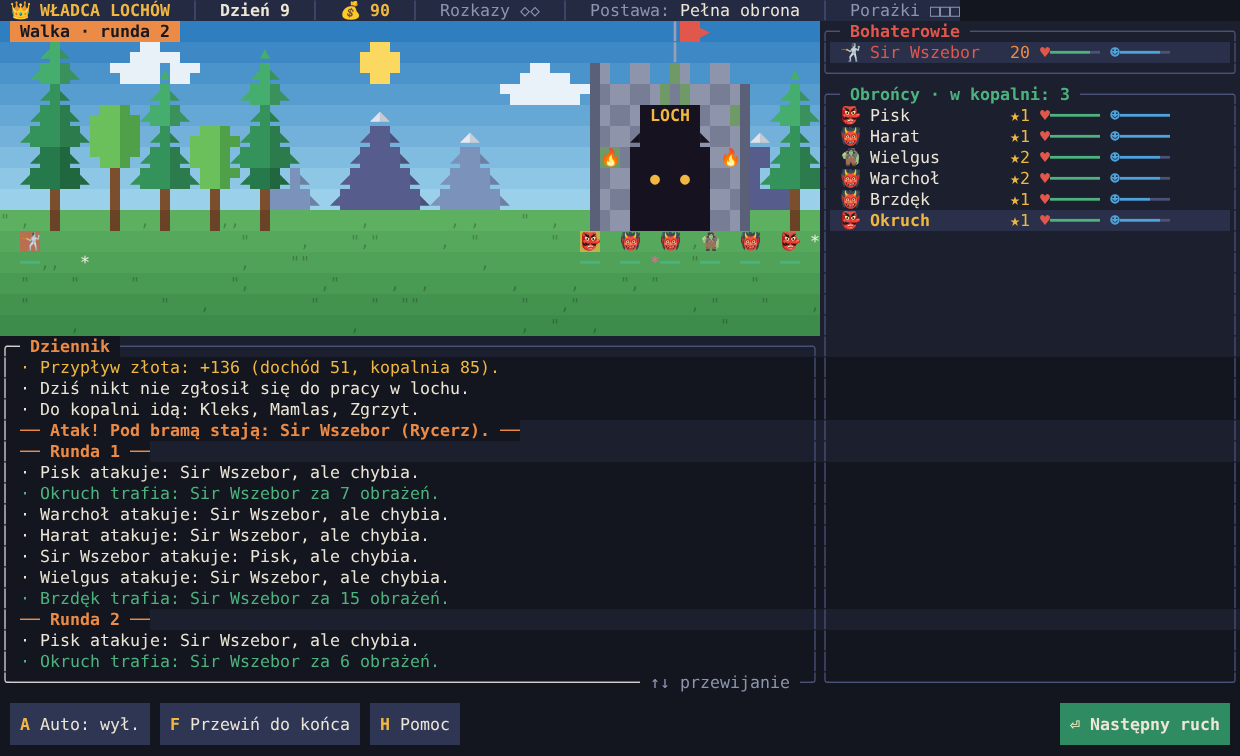
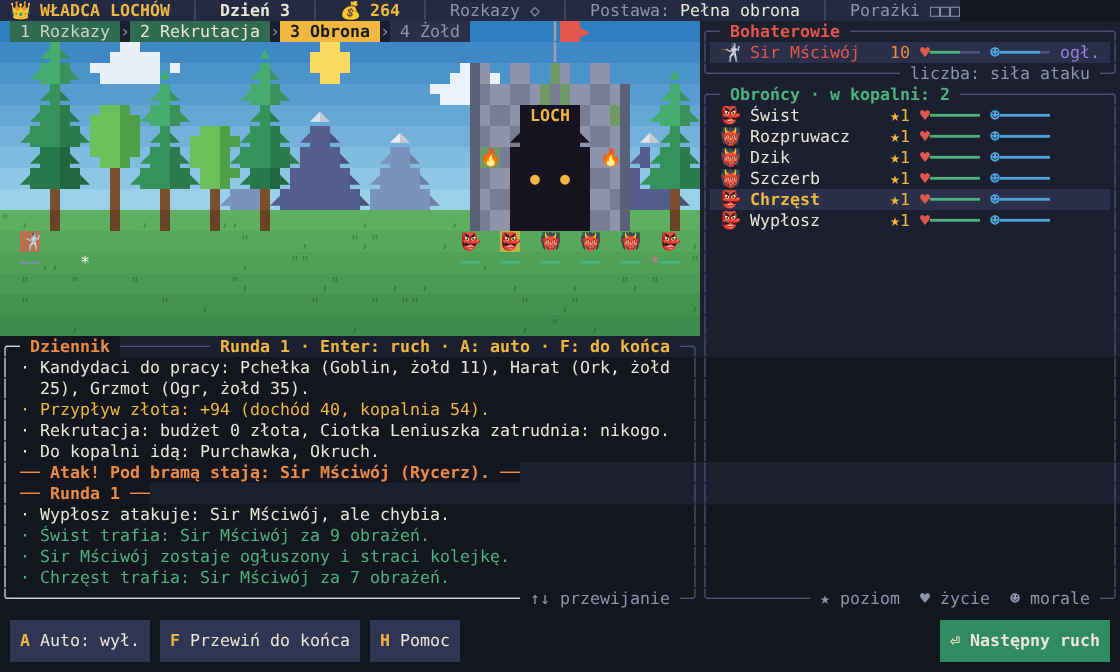
docs: opis samouczka i nowe zrzuty ekranu

Changed region(s): [[0.0, 0.0, 1.0, 1.0], [0.6562, 0.5312, 0.6875, 0.7188]]

diff --git a/README.md b/README.md
@@ -4,6 +4,8 @@ Terminalowa gra strategiczna w Javie. Jesteś Władcą Podziemnych Lochów: zatr
 kopiesz złoto i bronisz skarbca przed bohaterami. Nie sterujesz potworami w walce, tylko decydujesz,
 kto rządzi lochem i jaką prowadzi politykę.
 
+![Poranek w lochu](docs/podglad-poranek.png)
+
 ![Walka pod bramą lochu](docs/podglad-walka.png)
 
 Obrazki to podgląd wyrenderowany poza terminalem; dokładny wygląd zależy od czcionki terminala.
@@ -37,6 +39,24 @@ Opcje:
 - **Klawiatura:** litery i Enter widoczne na przyciskach u dołu ekranu; w oknach wyboru strzałki,
   Enter, cyfry 1-9 i Esc. Strzałki góra/dół przewijają dziennik.
 - **Myszka:** kliknięcie w przycisk albo w opcję okna. Sam ruch myszki niczego nie robi.
+
+## Pierwsza gra
+
+Przy nowej grze wybierz „Z samouczkiem”. Najpierw zobaczysz cztery krótkie strony wprowadzenia,
+a potem przez pierwsze 5 dni prowadzi Cię doradca:
+
+| Dzień | Co się pojawia |
+|---|---|
+| 1 | żadnych decyzji: oglądasz, jak wygląda dzień |
+| 2 | Ulepszenia, 1 rozkaz dziennie |
+| 3 | Postawa i pierwszy, łatwy atak (jeden słaby rycerz) |
+| 4 | Potwory (premie, zwolnienia) i Budżet |
+| 5 | Ministrowie, od teraz 2 rozkazy dziennie |
+
+Na ekranie zawsze widać, w której fazie dnia jesteś (pasek nad sceną), co możesz teraz zrobić
+(podpowiedź nad dziennikiem) i co oznaczają symbole (dolna krawędź listy potworów). Każdy dzień
+kończy się podsumowaniem: ile złota przyszło, na co poszło i co zmieniło się w załodze.
+Klawisz H otwiera pomoc w dowolnej chwili.
 
 ## Zasady w skrócie
 
